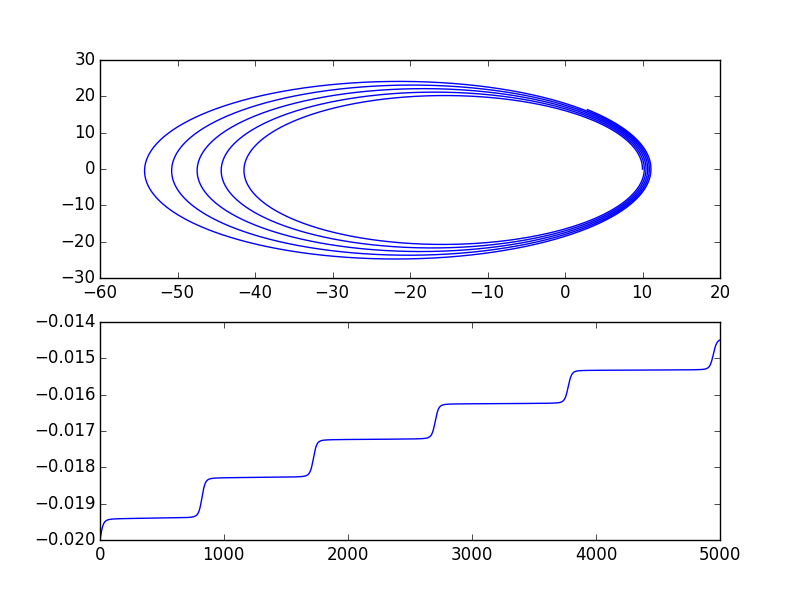
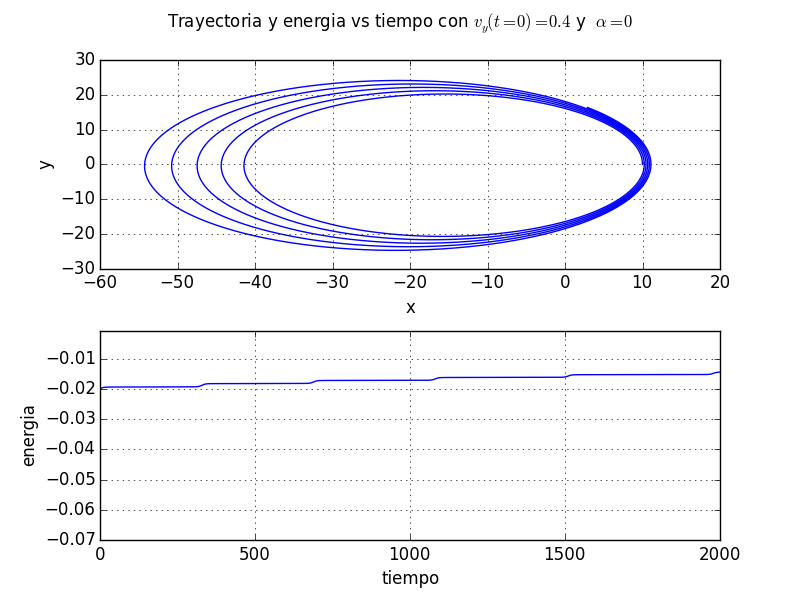
graficos de energia a escala entre ellos

diff --git a/solucion_usando_euler.py b/solucion_usando_euler.py
@@ -12,7 +12,9 @@ p = Planeta(condicion_inicial)
 
 N_steps = 3*np.int(1e4)
 dt=5000./N_steps
-t=np.linspace(0,5000,N_steps)
+#escogemos hasta 2000 para comparar todas las energias hasta el mismo tiempo
+
+t=np.linspace(0,2000,N_steps)
 #creamos los arrays en que se guardara la informacion
 x= np.zeros(N_steps)
 y= np.zeros(N_steps)
@@ -34,11 +36,21 @@ for i in range(1, N_steps):
 fig = plt.figure(1)
 fig.clf()
 
+
 ax1 = fig.add_subplot(211)
+plt.suptitle('Trayectoria y energia vs tiempo con $v_{y}(t=0)=0.4$ y  ' r'$\alpha=0$')
+fig.subplots_adjust(hspace=.3)
 ax1.plot(x,y)
+ax1.grid(True)
+ax1.set_xlabel('x')
+ax1.set_ylabel('y')
+#plt.suptitle('Energia vs tiempo')
 ax2 = fig.add_subplot(212)
 ax2.plot(t,energia)
-#ax2.set_ylim(-1,1)
+ax2.grid(True)
+ax2.set_xlabel('tiempo')
+ax2.set_ylabel('energia')
+ax2.set_ylim(-0.07,-0.001)
 plt.draw()
 plt.show()
 plt.savefig('euler.png')

diff --git a/solucion_usando_verlet.py b/solucion_usando_verlet.py
@@ -7,7 +7,8 @@ p = Planeta(condicion_inicial)
 
 N_steps = 7*np.int(1e5)
 dt=4000./N_steps
-t=np.linspace(0,4000,N_steps)
+#escogemos hasta 2000 para comparar todas las energias hasta el mismo tiempo
+t=np.linspace(0,2000,N_steps)
 #creamos los arrays en que se guardara la informacion
 x= np.zeros(N_steps)
 y= np.zeros(N_steps)
@@ -33,10 +34,19 @@ fig = plt.figure(1)
 fig.clf()
 
 ax1 = fig.add_subplot(211)
+plt.suptitle('Trayectoria y energia vs tiempo con $v_{y}(t=0)=0.4$ y  ' r'$\alpha=0$')
+fig.subplots_adjust(hspace=.3)
 ax1.plot(x,y)
+ax1.grid(True)
+ax1.set_xlabel('x')
+ax1.set_ylabel('y')
+
 ax2 = fig.add_subplot(212)
 ax2.plot(t,energia)
-#ax2.set_ylim(-1,1)
+ax2.grid(True)
+ax2.set_xlabel('tiempo')
+ax2.set_ylabel('energia')
+ax2.set_ylim(-0.07,-0.001)
 plt.draw()
 plt.show()
 plt.savefig('verlet.png')

diff --git a/alpha_distinto_de_cero.py b/alpha_distinto_de_cero.py
@@ -29,10 +29,18 @@ fig = plt.figure(1)
 fig.clf()
 
 ax1 = fig.add_subplot(211)
+plt.suptitle('Trayectoria y energia vs tiempo con $v_{y}(t=0)=0.4$ y  ' r'$\alpha=10^{-2.232}$')
+fig.subplots_adjust(hspace=.3)
 ax1.plot(x,y)
+ax1.grid(True)
+ax1.set_xlabel('x')
+ax1.set_ylabel('y')
+
 ax2 = fig.add_subplot(212)
 ax2.plot(t,energia)
-ax2.set_ylim(-1,1)
+ax2.grid(True)
+ax2.set_xlabel('tiempo')
+ax2.set_ylabel('energia')
 plt.draw()
 plt.show()
 plt.savefig('alpha_distinto_de_cero.png')

diff --git a/solucion_usando_rk4.py b/solucion_usando_rk4.py
@@ -31,10 +31,19 @@ fig = plt.figure(1)
 fig.clf()
 
 ax1 = fig.add_subplot(211)
+plt.suptitle('Trayectoria y energia vs tiempo con $v_{y}(t=0)=0.4$ y  ' r'$\alpha=0$')
+fig.subplots_adjust(hspace=.3)
 ax1.plot(x,y)
+ax1.grid(True)
+ax1.set_xlabel('x')
+ax1.set_ylabel('y')
 
 ax2 = fig.add_subplot(212)
 ax2.plot(t,energia)
+ax2.grid(True)
+ax2.set_xlabel('tiempo')
+ax2.set_ylabel('energia')
+ax2.set_ylim(-0.07,-0.001)
 plt.draw()
 plt.show()
 plt.savefig('rk4.png')

diff --git a/planeta.py b/planeta.py
@@ -95,8 +95,6 @@ class Planeta(object):
         '''
         Similar a avanza_euler, pero usando Verlet.
         '''
-        #Como Verlet necesita dos puntos anteriores y solo tenemos uno (condiciones iniciales)
-        #calcularemos el segundo punto con otro metodo y luego seguiremos con Verlet.
         x0,y0,vx0,vy0=self.y_actual
         vx0,vy0,fx0,fy0= self.ec_de_mov()
 
